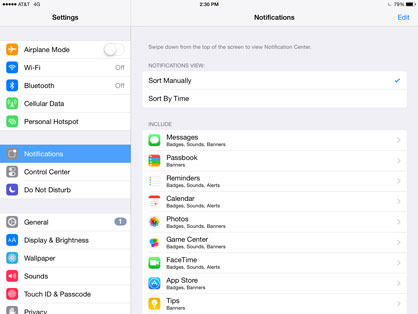
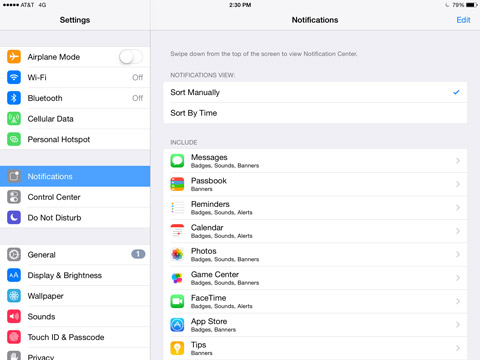
[Examples] Increase the size of the thumbnails quite a bit

diff --git a/public/css/examples.css b/public/css/examples.css
@@ -27,8 +27,8 @@
 
 .grid-item {
 	width: 275px;
-	height: 290px;
 	margin: 15px;
+	margin-bottom: 25px;
 }
 
 h4 {
@@ -46,7 +46,7 @@ h4 {
 
 .thumbnail {
 	width: 275px;
-	height: 205px;
+	height: 225px;
 	background-color: #ddd;
 	position: relative;
 	overflow: hidden;
@@ -62,19 +62,21 @@ h4 {
 .iphone {
 	width: 375px;
 	height: 667px;
-	-webkit-transform: scale3d(0.2666, 0.2666, 1);
+	/* Scale to 226 x 402px (113 x 201pt) */
+	-webkit-transform: scale3d(0.30135, 0.30135, 1);
 	-webkit-transform-origin: top left;
-	left: calc(50% - (375px * 0.5 * 0.2666));
-	top: calc(50% - (667px * 0.5 * 0.2666)); 
+	left: calc(50% - (375px * 0.5 * 0.30135));
+	top: calc(50% - (667px * 0.5 * 0.30135)); 
 }
 
 .ipad {
 	width: 1024px;
 	height: 768px;
-	-webkit-transform: scale3d(0.2044, 0.2044, 1);
+	/* Scale to 480 x 360px (240 x 180pt) */
+	-webkit-transform: scale3d(0.234375, 0.234375, 1);
 	-webkit-transform-origin: top left;
-	left: calc(50% - (1024px * 0.5 * 0.2044));
-	top: calc(50% - (768px * 0.5 * 0.2044)); 
+	left: calc(50% - (1024px * 0.5 * 0.234375));
+	top: calc(50% - (768px * 0.5 * 0.234375)); 
 }
 
 .screen {
@@ -111,7 +113,7 @@ h4 {
 }
 
 #pull-to-search .screen {
-	background-image: url('../images/examples/pull-to-search.png');	
+	background-image: url('../images/examples/pull-to-search.jpg');	
 }
 
 /* @end */
